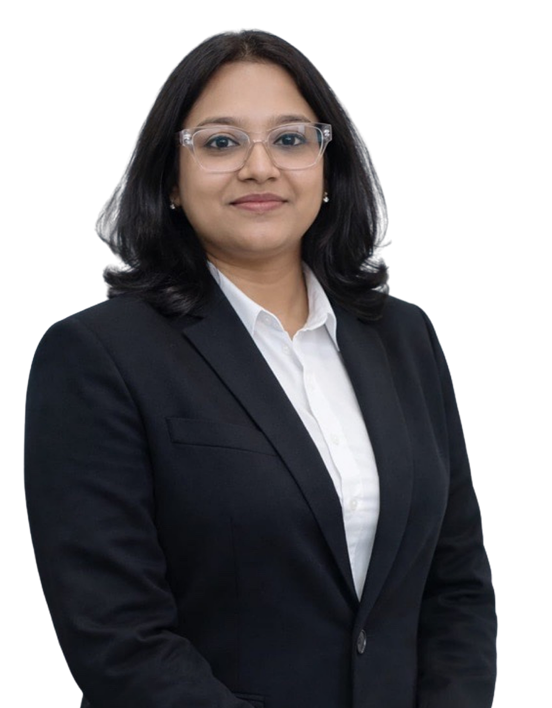
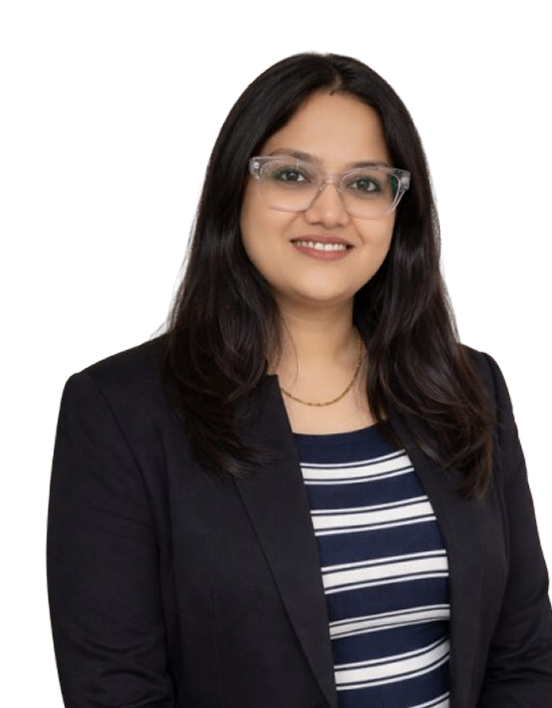
director message and poonam image chnaged

diff --git a/src/components/AboutUs/DirectorIntro.tsx b/src/components/AboutUs/DirectorIntro.tsx
@@ -27,7 +27,7 @@ const DirectorIntro = () => {
                         (Director)
                     </p>
                     <p className="font-['DM_Sans'] font-light text-base sm:text-lg text-[#142349] leading-relaxed">
-                        Leads strategic direction, service expansion and quality assurance. Focuses on building reliable healthcare systems and strengthening partnerships. Leads strategic direction, service expansion and quality assurance.
+                        “Our organisation is built on a foundation of “patient-first” philosophy. We are not only providing primary health care services but also helping our patients in their wellness journey. Our team focus is on providing proactive, preventive care that keeps you healthy and thriving. Primary Care is about more than just treating symptoms – its about understanding the person behind the patient.” 
                     </p>
                 </div>
             </div>
@@ -67,7 +67,7 @@ const DirectorIntro = () => {
                                 (Director)
                             </p>
                             <p className="font-['DM_Sans'] font-light text-[#142349] text-[18px] leading-[30px] w-[542px] h-[150px]">
-                                Leads strategic direction, service expansion and quality assurance. Focuses on building reliable healthcare systems and strengthening partnerships. Leads strategic direction, service expansion and quality assurance. Focuses on building reliable healthcare systems and strengthening partnerships.
+                                “Our organisation is built on a foundation of “patient-first” philosophy. We are not only providing primary health care services but also helping our patients in their wellness journey. Our team focus is on providing proactive, preventive care that keeps you healthy and thriving. Primary Care is about more than just treating symptoms – its about understanding the person behind the patient.” 
                             </p>
                         </div>
                     </div>
